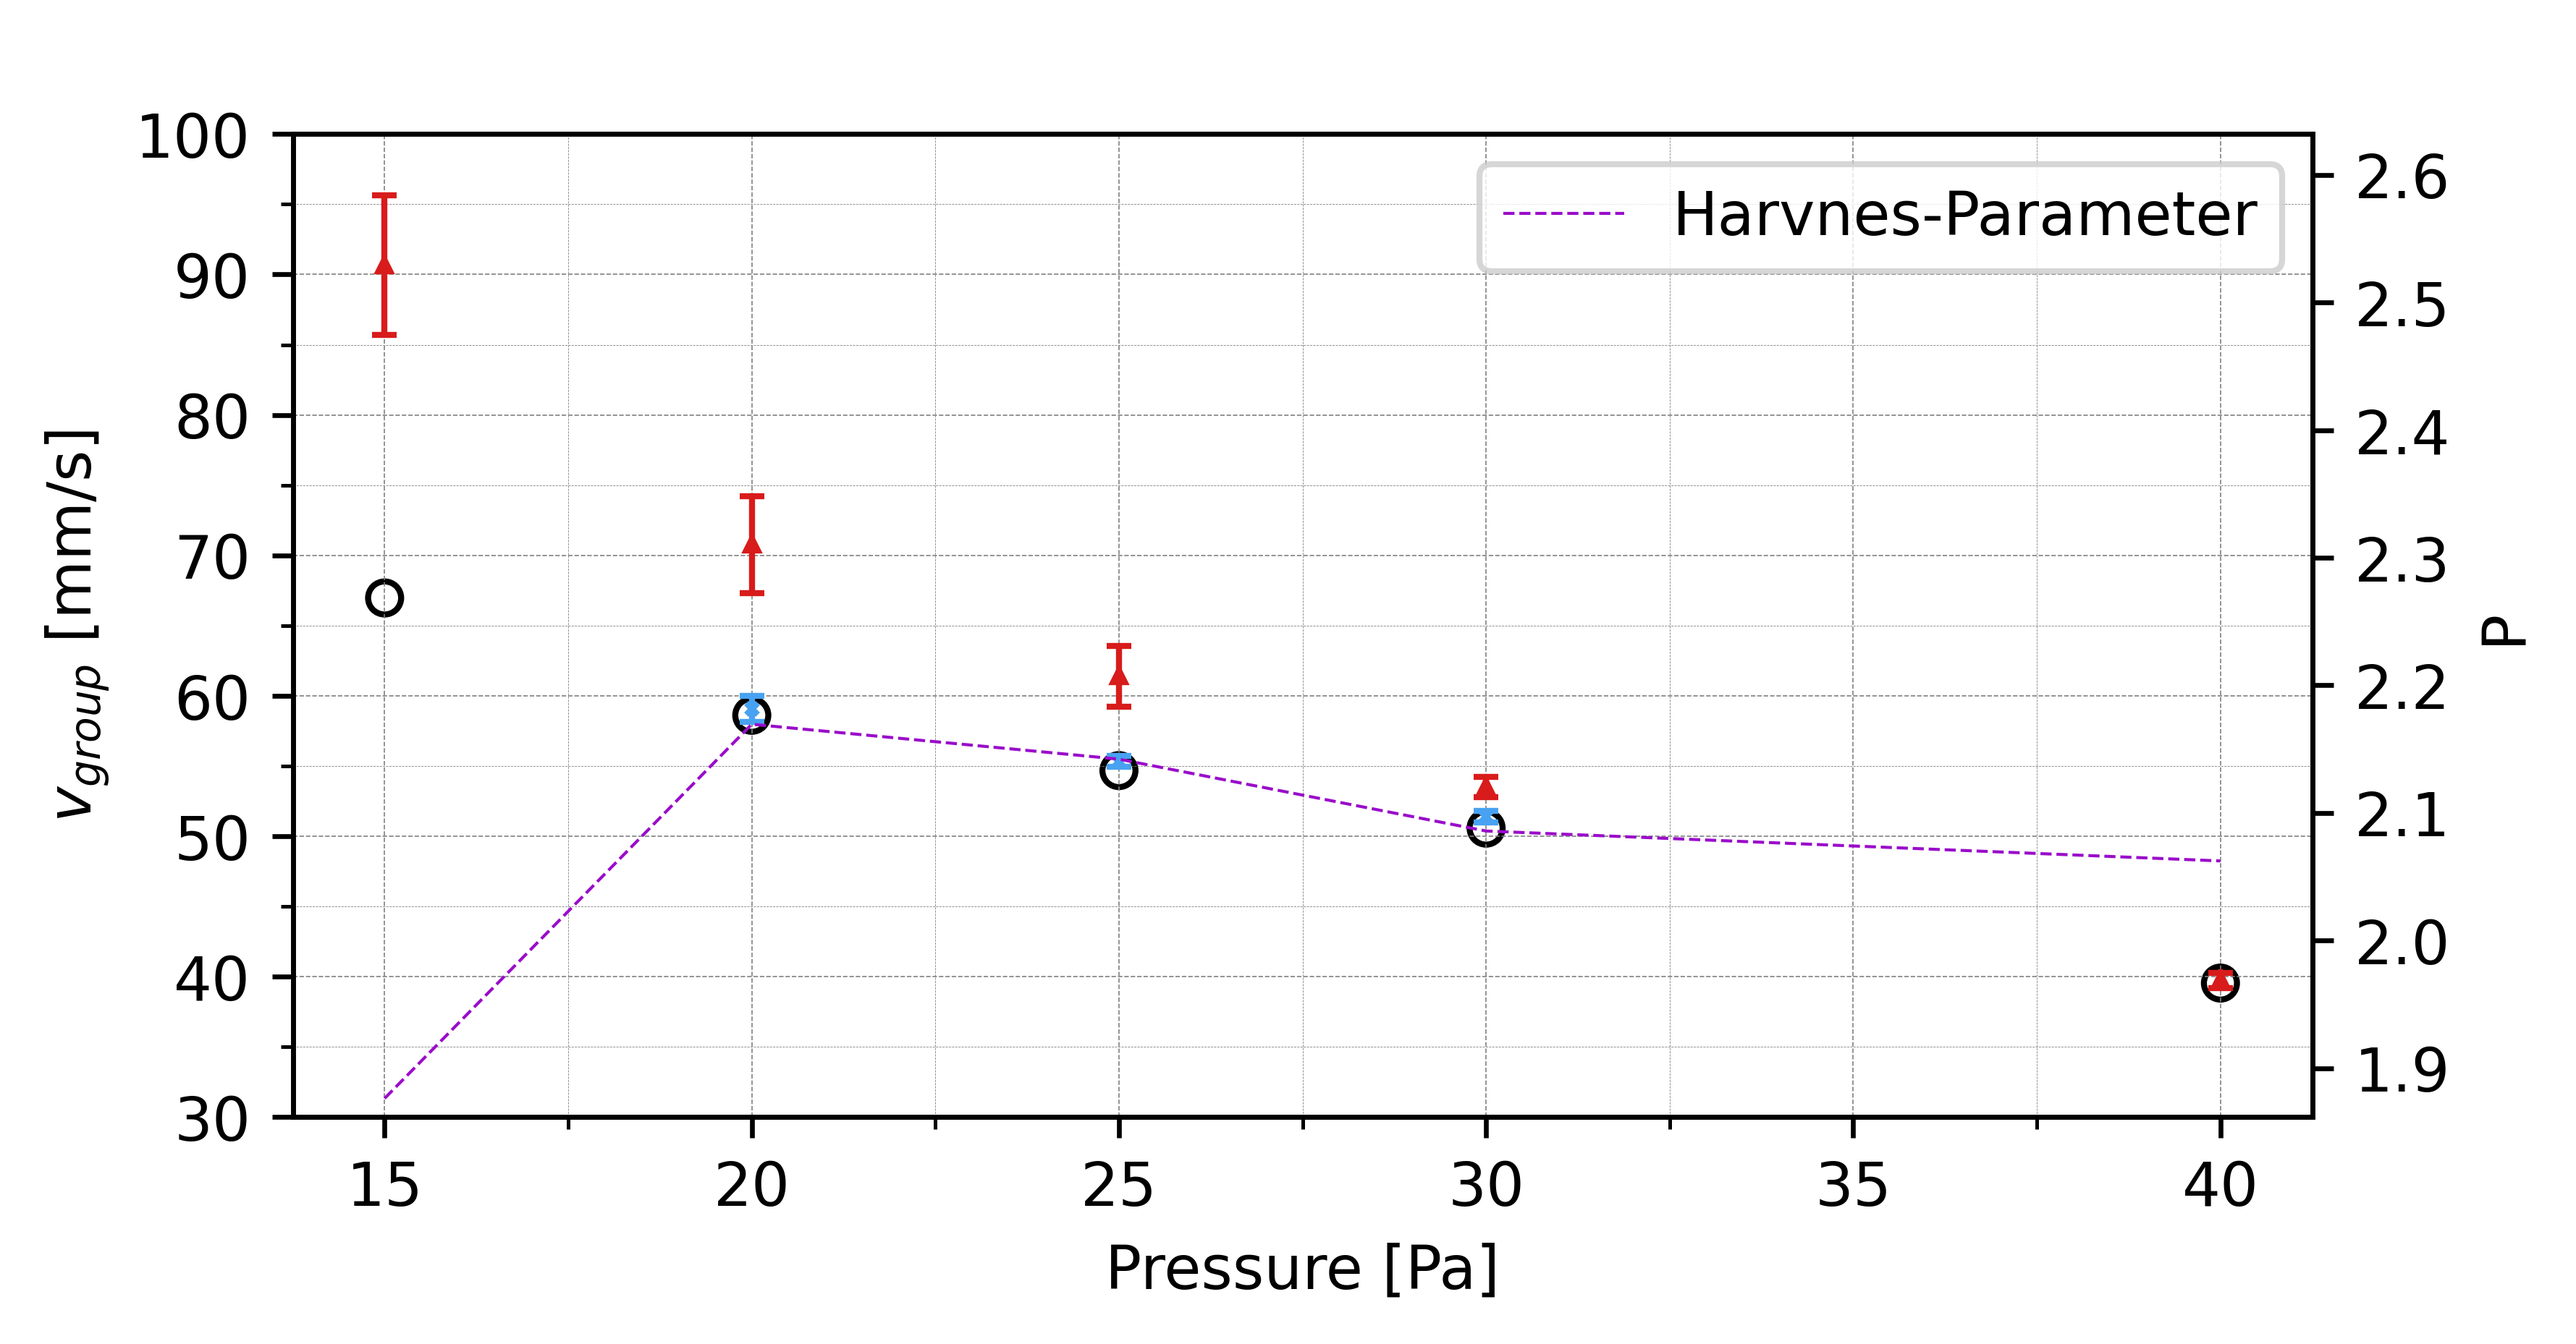
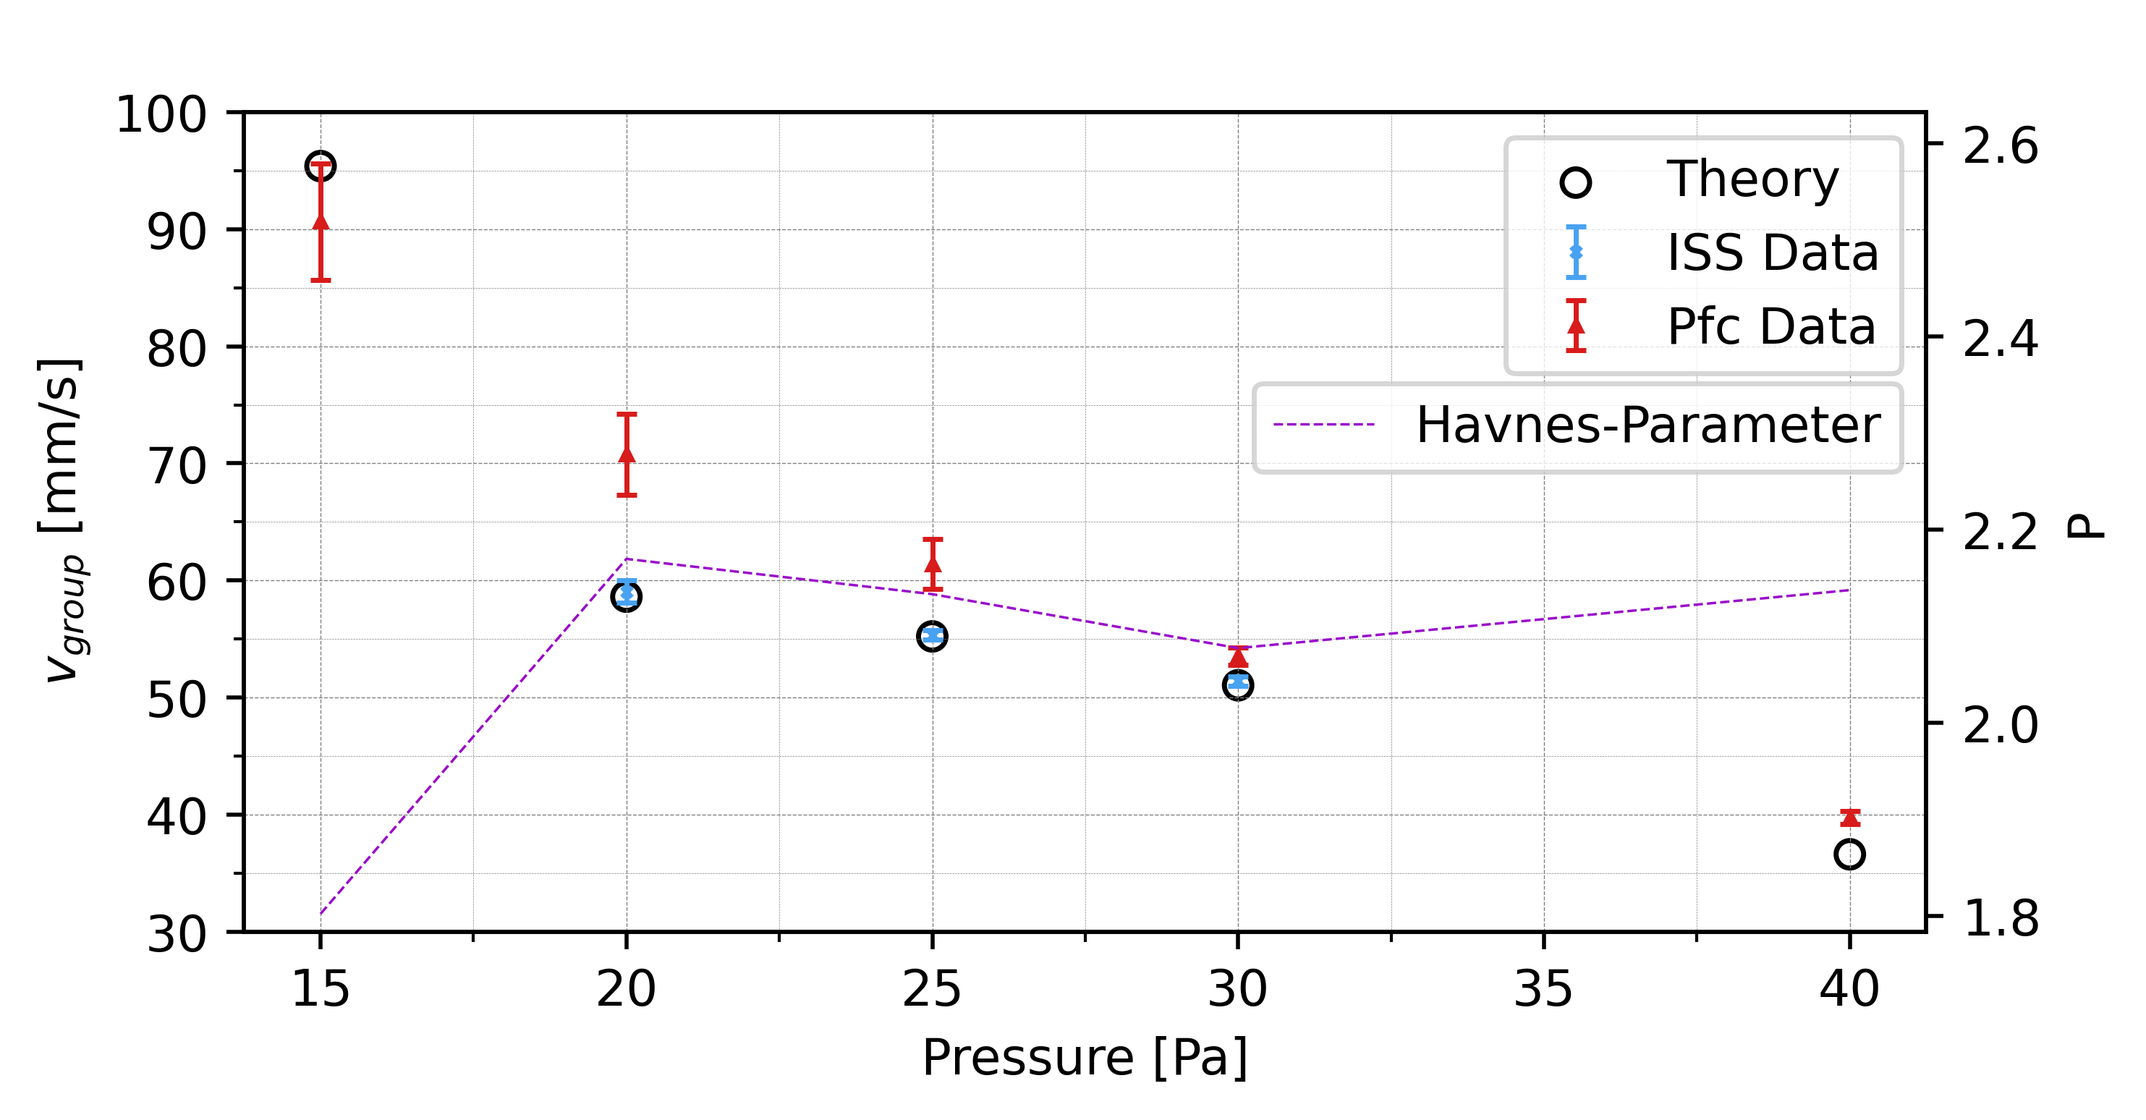
data_processing

diff --git a/plots_bw_pfc42.py b/plots_bw_pfc42.py
@@ -1043,30 +1043,19 @@ def cdaw_bigploterror_6_3ov3_theory(data15, error15, theory15, data, error, theo
     
     plt.show() 
     
-def group_bigploterror_6_3ov3_theory(data15, error15, theory15, data, error, data_pfc, error_pfc, theory20, data2, error2, data2_pfc, error2_pfc, theory25, data3, error3, data3_pfc, error3_pfc, theory30, data4, error4, theory40, havnes, title, legend):
+def group_bigploterror_6_3ov3_theory(v_group, v_group_pfc, theory, havnes, title, legend):
     
-    fig, ax = plt.subplots(dpi=600)
+    fig, ax = plt.subplots(dpi=500)
     fig.set_size_inches(6, 3)
     #
-    ax.errorbar(15, data15, yerr=error15, fmt='^', color='#D81B1B', markersize=2, linewidth=1, capsize=2)
-    ax.errorbar(20, data, yerr=error, fmt='x', color='#48A2F1', markersize=2, linewidth=1, capsize=2) 
-    ax.errorbar(20, data_pfc, yerr=error_pfc, fmt='^', color='#D81B1B', markersize=2, linewidth=1, capsize=2)        
-    ax.errorbar(25, data2, yerr=error2, fmt='x', color='#48A2F1', markersize=2, linewidth=1, capsize=2)
-    ax.errorbar(25, data2_pfc, yerr=error2_pfc, fmt='^', color='#D81B1B', markersize=2, linewidth=1, capsize=2)    
-    ax.errorbar(30, data3, yerr=error3, fmt='x',color='#48A2F1', markersize=2, linewidth=1, capsize=2)
-    ax.errorbar(30, data3_pfc, yerr=error3_pfc, fmt='^',color='#D81B1B', markersize=2, linewidth=1, capsize=2)
-    ax.errorbar(40, data4, yerr=error4, fmt='^',color='#D81B1B', markersize=2, linewidth=1, capsize=2)
+    p = [15, 20, 25, 30, 40]
+    p2 = [20, 25, 30]
     #
-    #ax.legend(['Pfc Data','ISS Data'])
-    ax.scatter(15,theory15, marker='o' , color='#000000', linewidth=1, s=30, facecolors='none')#, facecolors='none'
-    ax.scatter(20,theory20, marker='o' , color='#000000', linewidth=1, s=30, facecolors='none')
-    ax.scatter(25,theory25, marker='o', color='#000000', linewidth=1, s=30, facecolors='none')
-    ax.scatter(30,theory30, marker='o', color='#000000', linewidth=1, s=30, facecolors='none')
-    ax.scatter(40,theory40, marker='o', color='#000000', linewidth=1, s=30, facecolors='none')
+    ax.errorbar(p2, v_group[0], yerr=v_group[1], fmt='x', color='#48A2F1', markersize=2, linewidth=1, capsize=2) 
+    ax.errorbar(p, v_group_pfc[0], yerr=v_group_pfc[1], fmt='^', color='#D81B1B', markersize=2, linewidth=1, capsize=2)        
+    ax.scatter(p, theory, marker='o', color='#000000', linewidth=1, s=30, facecolors='none')#, facecolors='none'
     #
-    #ax.legend(['Theory  '], bbox_to_anchor=(0.15, 0.8, .85, 0))
-    #ax.legend(legend, loc='upper right', prop={'size': 9}, bbox_to_anchor=(0.08, 0.85, .85, .102))
-    #adds a title and axes labels
+    ax.legend(['Theory','ISS Data','Pfc Data'])
     #
     plt.ylabel('$v_{group}$ [mm/s]')
     #
@@ -1074,14 +1063,11 @@ def group_bigploterror_6_3ov3_theory(data15, error15, theory15, data, error, dat
     #
     # Create a second y-axis sharing the same x-axis
     ax2 = ax.twinx()  # instantiate a second axes that shares the same x-axis
-    arr_referenc =  [15, 20, 25, 30, 40]
-    ax2.plot(arr_referenc, havnes, color='#9A0CCA', linewidth=.5, linestyle='dashed')
+    ax2.plot(p, havnes, color='#9A0CCA', linewidth=.5, linestyle='dashed')
     #
-    
-    ax2.legend(["Harvnes-Parameter"], bbox_to_anchor=(0.15, 0.7, .85, 0))#, prop={'size': 9})#, bbox_to_anchor=(0.08, 0.85, .85, .102))
+    ax2.legend(["Havnes-Parameter"], bbox_to_anchor=(0.15, 0.6, .85, 0.1))#, prop={'size': 9})#, bbox_to_anchor=(0.08, 0.85, .85, .102))
     #
     plt.ylabel('P')
-    
     #
     #Edit tick 
     ax.xaxis.set_minor_locator(MultipleLocator(2.5))
@@ -1532,9 +1518,12 @@ z = theory[:,1]
 havnes = [parameters["15pa"]["havnes"], parameters["20pa"]["havnes"], parameters["25pa"]["havnes"], parameters["30pa"]["havnes"], parameters["40pa"]["havnes"]]
 ef = [parameters["15pa"]["e-field-vm"], parameters["20pa"]["e-field-vm"], parameters["25pa"]["e-field-vm"], parameters["30pa"]["e-field-vm"], parameters["40pa"]["e-field-vm"]]
 Zd_a = [parameters["15pa"]["Z_d"], parameters["20pa"]["Z_d"], parameters["25pa"]["Z_d"], parameters["30pa"]["Z_d"], parameters["40pa"]["Z_d"]]
-
-group_bigploterror_6_3ov3_theory(data_15_average, error_15_average, theo_plot[0]*1000, data_20_average, error_20_average, data_20_pfc, error_20_pfc, theo_plot[1]*1000, data_25_average, error_25_average, data_25_pfc, error_25_pfc, theo_plot[2]*1000, data_30_average, error_30_average, data_30_pfc, error_30_pfc, theo_plot[3]*1000, data_40_average, error_40_average, theo_plot[4]*1000, havnes,' ', ['20pa theory z='+str(.225), '25pa theory z='+str(.226), '30pa theory z=' +str(.229),'20pa exp-F', '25pa exp-F', '30pa exp-F'])
-group_efieldploterror_6_3ov3_theory(ef[0], data_15_average, error_15_average, theo_plot[0]*1000, ef[1], data_20_average, error_20_average, theo_plot[1]*1000, ef[2], data_25_average, error_25_average, theo_plot[2]*1000, ef[3], data_30_average, error_30_average, theo_plot[3]*1000, ef[4], data_40_average, error_40_average, theo_plot[4]*1000, havnes,' ', ['20pa theory z='+str(.225), '25pa theory z='+str(.226), '30pa theory z=' +str(.229),'20pa exp-F', '25pa exp-F', '30pa exp-F'])
+#
+v_g_100_pfc = [[data_15_average, data_20_pfc, data_25_pfc, data_30_pfc, data_40_average],[error_15_average, error_20_pfc, error_25_pfc, error_30_pfc, error_40_average]]
+v_g_100 = [[data_20_average, data_25_average, data_30_average], [error_20_average, error_25_average, error_30_average]]
+#
+group_bigploterror_6_3ov3_theory(v_g_100, v_g_100_pfc, theo_plot*1000, havnes,' ', ['20pa theory z='+str(.225), '25pa theory z='+str(.226), '30pa theory z=' +str(.229),'20pa exp-F', '25pa exp-F', '30pa exp-F'])
+#group_efieldploterror_6_3ov3_theory(ef[0], data_15_average, error_15_average, theo_plot[0]*1000, ef[1], data_20_average, error_20_average, theo_plot[1]*1000, ef[2], data_25_average, error_25_average, theo_plot[2]*1000, ef[3], data_30_average, error_30_average, theo_plot[3]*1000, ef[4], data_40_average, error_40_average, theo_plot[4]*1000, havnes,' ', ['20pa theory z='+str(.225), '25pa theory z='+str(.226), '30pa theory z=' +str(.229),'20pa exp-F', '25pa exp-F', '30pa exp-F'])
 
 
 #%% Phase speeds DC100 - LOAD
@@ -1674,7 +1663,7 @@ error_speedlist_average_40pa_forward = np.std(a)/np.sqrt(len(a)) + error_40
 #bigploterror_6_3ov3(speedlist_average_20pa_forward, error_speedlist_average_20pa_forward, speedlist_average_20pa_backward, error_speedlist_average_20pa_backward, speedlist_average_25pa_forward, error_speedlist_average_25pa_forward, speedlist_average_25pa_backward, error_speedlist_average_25pa_backward, speedlist_average_30pa_forward, error_speedlist_average_30pa_forward, speedlist_average_30pa_backward, error_speedlist_average_25pa_backward, ' ', ['20pa F', '20pa B', '25pa F', '25pa B', '30pa F', '30pa B'])
 
 # Import Math #
-obj_text_f = codecs.open('resultsC17/theory/theo_cdaw_dc100_z0.223_depl.txt', 'r', encoding='utf-8').read()
+obj_text_f = codecs.open('resultsC17/theory/theo_cdaw_dc100_z0.236_depl.txt', 'r', encoding='utf-8').read()
 theory = np.array(json.loads(obj_text_f)) #This reads json to list
 theo_plot = theory[:,0]
 z = theory[:,1]

diff --git a/math_bw_pfc42.py b/math_bw_pfc42.py
@@ -110,8 +110,8 @@ I = .5 #mA
 p = np.array([15, 20, 25, 30, 40]) #pa
 
 '''    Charge Potential    '''
-z = [0.51, 0.35, 0.338, 0.348, 0.296]#0.35 #=0.3 +-0.1 for neon
-z_inkl_error = [[0.51, 0.068],[0.35, 0.012],[0.338, 0.023],[0.348, 0.029],[0.296, 0.035]]
+z = [0.462, 0.355, 0.35, 0.35, 0.313]#0.35 #=0.3 +-0.1 for neon
+z_inkl_error = [[0.462, 0.12],[0.35, 0.012],[0.338, 0.023],[0.348, 0.029],[0.296, 0.035]]
 
 '''    Duty-Cycle    '''
 dc_value = 1
@@ -352,18 +352,18 @@ c_100_error = [data_v['15pa']['c_daw_100_error'], data_v['20pa']['c_daw_100_erro
 #
 fig, ax = plt.subplots(dpi=600)
 fig.set_size_inches(4, 3)
-ax.errorbar([15, 20, 25, 30, 40], v_group_100, yerr=v_group_100_error, fmt='^', color='#00429d', markersize=2, linewidth=1, capsize=1)
+ax.errorbar([15, 20, 25, 30, 40], v_group_100, yerr=v_group_100_error, fmt='^', color='#00429d', markersize=1, linewidth=.75, capsize=1)
 ax.scatter(p[:], v_dust_ink_iondrag[:]*1000, marker='x', linestyle='solid', color='#00cc00', linewidth=.7)
-ax.legend(['E100','Theory'])
+ax.legend(['E100','Theory $v_{group}$'])
 #adds major gridlines
 ax.grid(color='grey', linestyle='--', linewidth=0.4, alpha=0.5)
 plt.show()
 #
 fig, ax = plt.subplots(dpi=600)
 fig.set_size_inches(4, 3)
-ax.errorbar([15, 20, 25, 30, 40], c_100, yerr=c_100_error, fmt='^', color='#00429d', markersize=1, linewidth=.5, capsize=1)
+ax.errorbar([15, 20, 25, 30, 40], c_100, yerr=c_100_error, fmt='^', color='#00429d', markersize=1, linewidth=.75, capsize=1)
 ax.scatter(p, C_daw, linestyle='solid', marker='x', color='#00cc00', linewidth=.5)
-ax.legend(['E100', 'Theory'])
+ax.legend(['E100', 'Theory $C_{DAW}$'])
 #adds major gridlines
 ax.grid(color='grey', linestyle='--', linewidth=0.4, alpha=0.5)
 plt.show()
